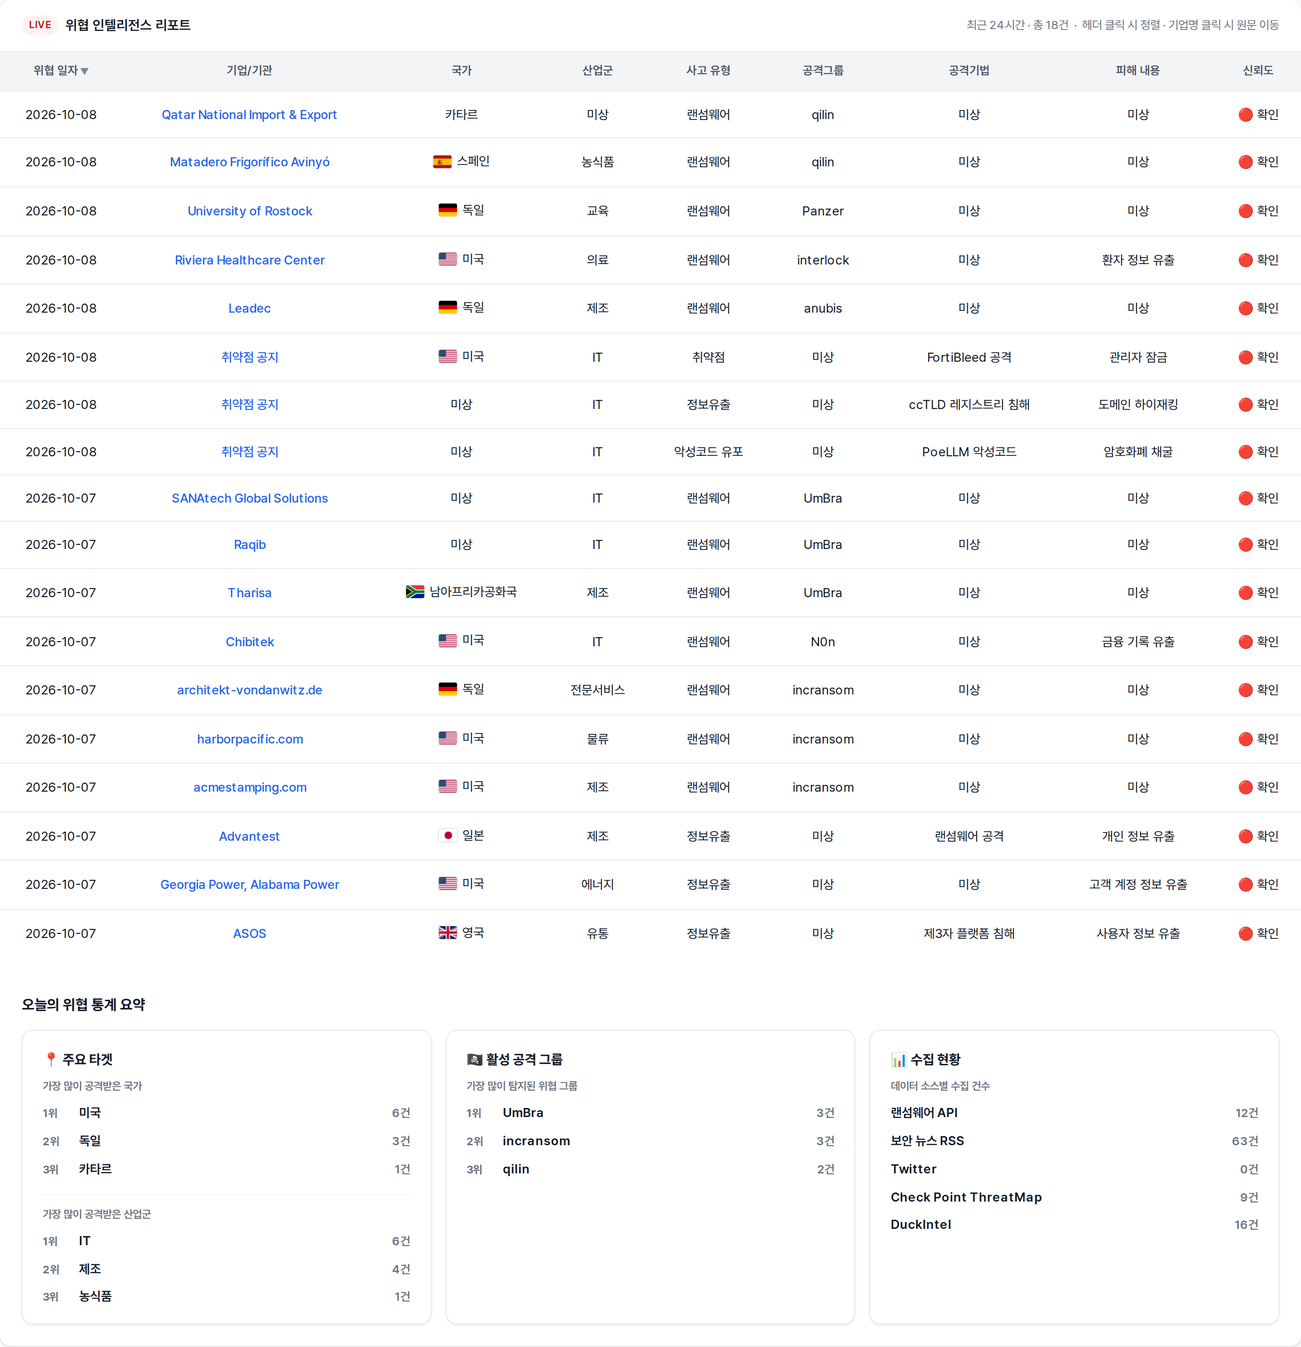
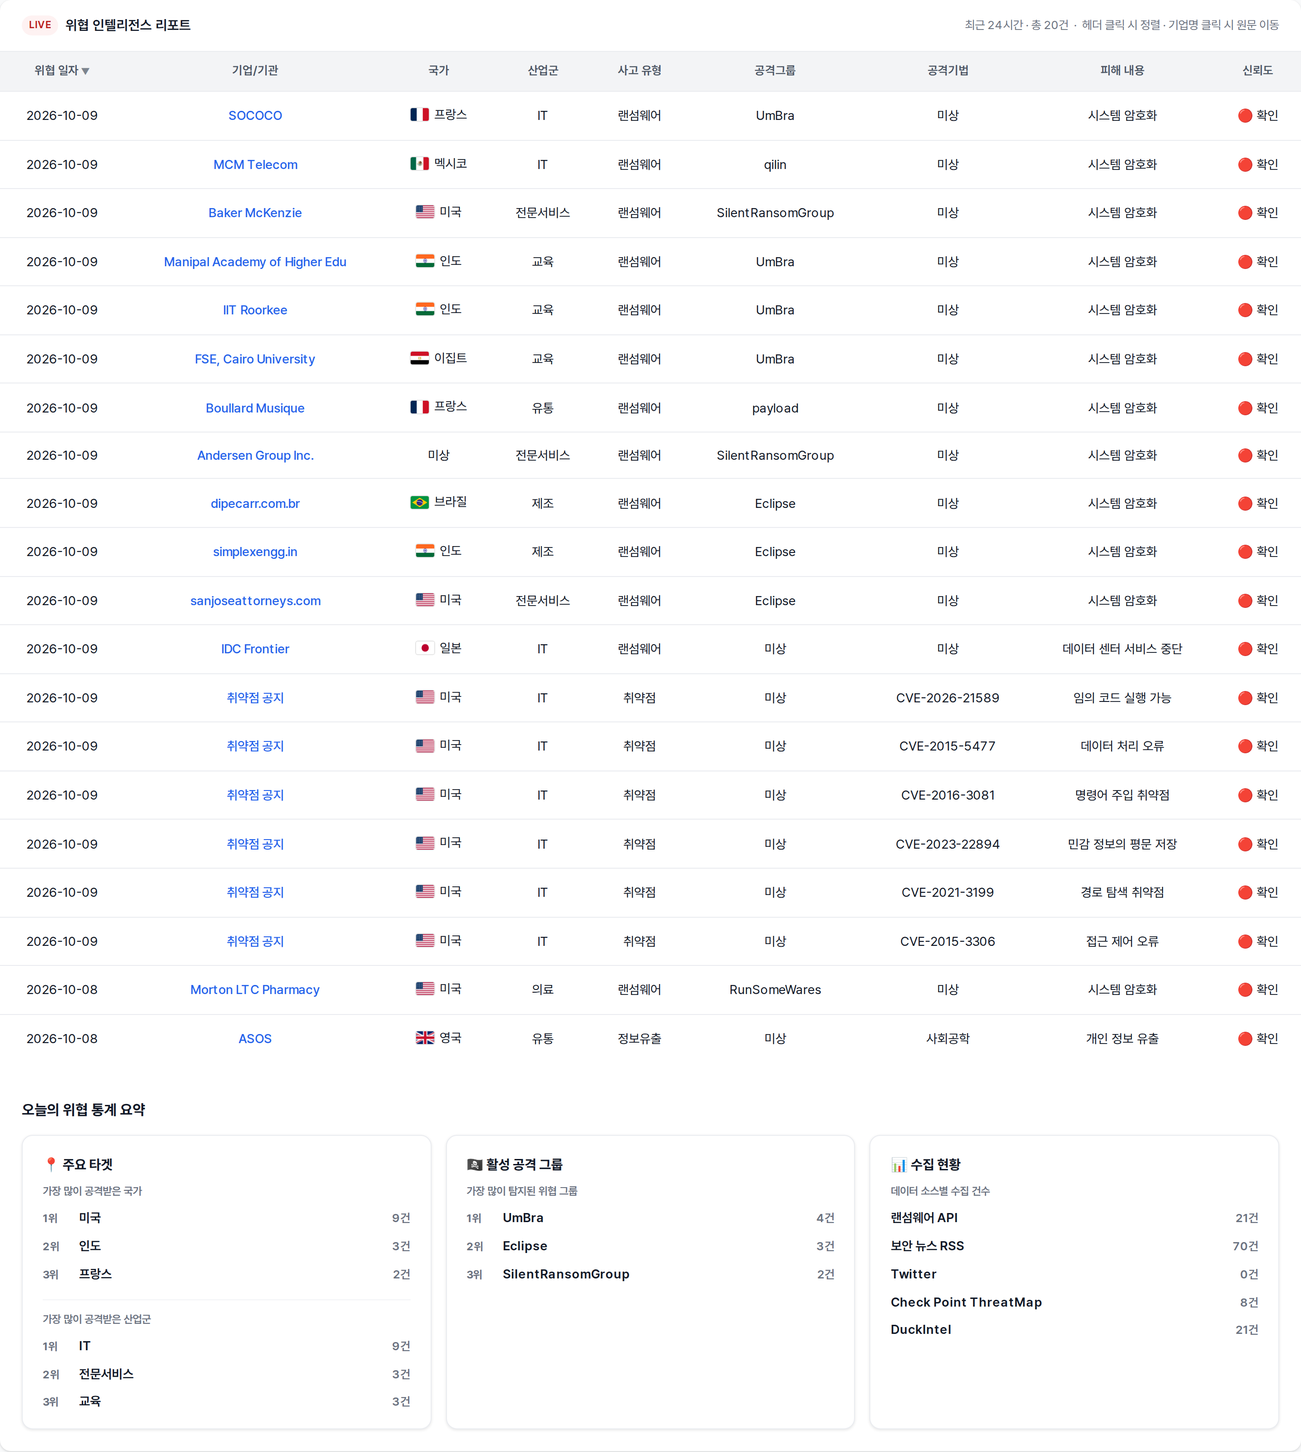
deploy: 9c533ad8fcaa3f846a31aadab046301a26f1192c

diff --git a/index.html b/index.html
@@ -3,7 +3,7 @@
 <head>
   <meta charset="UTF-8" />
   <meta name="viewport" content="width=device-width, initial-scale=1.0" />
-  <title>🚨 2026년 10월 08일 국내/해외 사이버 위협 현황</title>
+  <title>🚨 2026년 10월 09일 국내/해외 사이버 위협 현황</title>
   <link rel="preconnect" href="https://cdn.jsdelivr.net" />
   <link href="https://cdn.jsdelivr.net/gh/orioncactus/pretendard/dist/web/static/pretendard.css" rel="stylesheet" />
   <style>
@@ -253,7 +253,7 @@
 </head>
 <body>
   <div class="page-header">
-    <h1 class="page-title">🚨 2026년 10월 08일 국내/해외 사이버 위협 현황</h1>
+    <h1 class="page-title">🚨 2026년 10월 09일 국내/해외 사이버 위협 현황</h1>
   </div>
 
   <div class="dashboard">
@@ -261,30 +261,32 @@
     <div class="card-header">
       <span class="badge">LIVE</span>
       <span class="card-title">위협 인텔리전스 리포트</span>
-      <span class="card-count">최근 24시간 · 총 18건 &nbsp;·&nbsp; 헤더 클릭 시 정렬 · 기업명 클릭 시 원문 이동</span>
+      <span class="card-count">최근 24시간 · 총 20건 &nbsp;·&nbsp; 헤더 클릭 시 정렬 · 기업명 클릭 시 원문 이동</span>
     </div>
     <div class="table-wrap" style="overflow-x: auto; -webkit-overflow-scrolling: touch;">
       <table id="threat-table">
         <thead><tr><th onclick="sortTable(0)" data-col="0" class="sort-desc">위협 일자</th><th onclick="sortTable(1)" data-col="1">기업/기관</th><th onclick="sortTable(2)" data-col="2">국가</th><th onclick="sortTable(3)" data-col="3">산업군</th><th onclick="sortTable(4)" data-col="4">사고 유형</th><th onclick="sortTable(5)" data-col="5">공격그룹</th><th onclick="sortTable(6)" data-col="6">공격기법</th><th onclick="sortTable(7)" data-col="7">피해 내용</th><th onclick="sortTable(8)" data-col="8">신뢰도</th></tr></thead>
         <tbody>
-<tr><td>2026-10-08</td><td><a href="https://www.ransomware.live/id/UWF0YXIgTmF0aW9uYWwgSW1wb3J0ICYgRXhwb3J0QHFpbGlu" target="_blank" rel="noopener noreferrer">Qatar National Import &amp; Export</a></td><td class="country"><span class="country-cell">카타르</span></td><td>미상</td><td>랜섬웨어</td><td>qilin</td><td>미상</td><td>미상</td><td>🔴 확인</td></tr>
-<tr><td>2026-10-08</td><td><a href="https://www.ransomware.live/id/TWF0YWRlcm8gRnJpZ29yw61maWNvIEF2aW55w7NAcWlsaW4=" target="_blank" rel="noopener noreferrer">Matadero Frigorífico Avinyó</a></td><td class="country"><span class="country-cell"><img class="flag" src="https://flagcdn.com/w40/es.png" alt="스페인" width="20" height="14" />스페인</span></td><td>농식품</td><td>랜섬웨어</td><td>qilin</td><td>미상</td><td>미상</td><td>🔴 확인</td></tr>
-<tr><td>2026-10-08</td><td><a href="https://www.ransomware.live/id/VW5pdmVyc2l0eSBvZiBSb3N0b2NrQFBhbnplcg==" target="_blank" rel="noopener noreferrer">University of Rostock</a></td><td class="country"><span class="country-cell"><img class="flag" src="https://flagcdn.com/w40/de.png" alt="독일" width="20" height="14" />독일</span></td><td>교육</td><td>랜섬웨어</td><td>Panzer</td><td>미상</td><td>미상</td><td>🔴 확인</td></tr>
-<tr><td>2026-10-08</td><td><a href="https://www.ransomware.live/id/Uml2aWVyYSBIZWFsdGhjYXJlIENlbnRlckBpbnRlcmxvY2s=" target="_blank" rel="noopener noreferrer">Riviera Healthcare Center</a></td><td class="country"><span class="country-cell"><img class="flag" src="https://flagcdn.com/w40/us.png" alt="미국" width="20" height="14" />미국</span></td><td>의료</td><td>랜섬웨어</td><td>interlock</td><td>미상</td><td>환자 정보 유출</td><td>🔴 확인</td></tr>
-<tr><td>2026-10-08</td><td><a href="https://www.ransomware.live/id/TGVhZGVjQGFudWJpcw==" target="_blank" rel="noopener noreferrer">Leadec</a></td><td class="country"><span class="country-cell"><img class="flag" src="https://flagcdn.com/w40/de.png" alt="독일" width="20" height="14" />독일</span></td><td>제조</td><td>랜섬웨어</td><td>anubis</td><td>미상</td><td>미상</td><td>🔴 확인</td></tr>
-<tr><td>2026-10-08</td><td><a href="https://www.bleepingcomputer.com/news/security/fbi-ongoing-fortibleed-attacks-lock-out-fortigate-vpn-admins/" target="_blank" rel="noopener noreferrer">취약점 공지</a></td><td class="country"><span class="country-cell"><img class="flag" src="https://flagcdn.com/w40/us.png" alt="미국" width="20" height="14" />미국</span></td><td>IT</td><td>취약점</td><td>미상</td><td>FortiBleed 공격</td><td>관리자 잠금</td><td>🔴 확인</td></tr>
-<tr><td>2026-10-08</td><td><a href="https://www.bleepingcomputer.com/news/security/hackers-hijack-google-domains-after-breaching-cctld-registries/" target="_blank" rel="noopener noreferrer">취약점 공지</a></td><td class="country"><span class="country-cell">미상</span></td><td>IT</td><td>정보유출</td><td>미상</td><td>ccTLD 레지스트리 침해</td><td>도메인 하이재킹</td><td>🔴 확인</td></tr>
-<tr><td>2026-10-08</td><td><a href="https://www.bleepingcomputer.com/news/security/poellm-malware-infects-exposed-ai-servers-in-cryptomining-attacks/" target="_blank" rel="noopener noreferrer">취약점 공지</a></td><td class="country"><span class="country-cell">미상</span></td><td>IT</td><td>악성코드 유포</td><td>미상</td><td>PoeLLM 악성코드</td><td>암호화폐 채굴</td><td>🔴 확인</td></tr>
-<tr><td>2026-10-07</td><td><a href="https://www.ransomware.live/id/U0FOQXRlY2ggR2xvYmFsIFNvbHV0aW9uc0BVbUJyYQ==" target="_blank" rel="noopener noreferrer">SANAtech Global Solutions</a></td><td class="country"><span class="country-cell">미상</span></td><td>IT</td><td>랜섬웨어</td><td>UmBra</td><td>미상</td><td>미상</td><td>🔴 확인</td></tr>
-<tr><td>2026-10-07</td><td><a href="https://www.ransomware.live/id/UmFxaWJAVW1CcmE=" target="_blank" rel="noopener noreferrer">Raqib</a></td><td class="country"><span class="country-cell">미상</span></td><td>IT</td><td>랜섬웨어</td><td>UmBra</td><td>미상</td><td>미상</td><td>🔴 확인</td></tr>
-<tr><td>2026-10-07</td><td><a href="https://www.ransomware.live/id/VGhhcmlzYUBVbUJyYQ==" target="_blank" rel="noopener noreferrer">Tharisa</a></td><td class="country"><span class="country-cell"><img class="flag" src="https://flagcdn.com/w40/za.png" alt="남아프리카공화국" width="20" height="14" />남아프리카공화국</span></td><td>제조</td><td>랜섬웨어</td><td>UmBra</td><td>미상</td><td>미상</td><td>🔴 확인</td></tr>
-<tr><td>2026-10-07</td><td><a href="https://www.ransomware.live/id/Q2hpYml0ZWtATjBu" target="_blank" rel="noopener noreferrer">Chibitek</a></td><td class="country"><span class="country-cell"><img class="flag" src="https://flagcdn.com/w40/us.png" alt="미국" width="20" height="14" />미국</span></td><td>IT</td><td>랜섬웨어</td><td>N0n</td><td>미상</td><td>금융 기록 유출</td><td>🔴 확인</td></tr>
-<tr><td>2026-10-07</td><td><a href="https://www.ransomware.live/id/YXJjaGl0ZWt0LXZvbmRhbndpdHouZGVAaW5jcmFuc29t" target="_blank" rel="noopener noreferrer">architekt-vondanwitz.de</a></td><td class="country"><span class="country-cell"><img class="flag" src="https://flagcdn.com/w40/de.png" alt="독일" width="20" height="14" />독일</span></td><td>전문서비스</td><td>랜섬웨어</td><td>incransom</td><td>미상</td><td>미상</td><td>🔴 확인</td></tr>
-<tr><td>2026-10-07</td><td><a href="https://www.ransomware.live/id/aGFyYm9ycGFjaWZpYy5jb21AaW5jcmFuc29t" target="_blank" rel="noopener noreferrer">harborpacific.com</a></td><td class="country"><span class="country-cell"><img class="flag" src="https://flagcdn.com/w40/us.png" alt="미국" width="20" height="14" />미국</span></td><td>물류</td><td>랜섬웨어</td><td>incransom</td><td>미상</td><td>미상</td><td>🔴 확인</td></tr>
-<tr><td>2026-10-07</td><td><a href="https://www.ransomware.live/id/YWNtZXN0YW1waW5nLmNvbUBpbmNyYW5zb20=" target="_blank" rel="noopener noreferrer">acmestamping.com</a></td><td class="country"><span class="country-cell"><img class="flag" src="https://flagcdn.com/w40/us.png" alt="미국" width="20" height="14" />미국</span></td><td>제조</td><td>랜섬웨어</td><td>incransom</td><td>미상</td><td>미상</td><td>🔴 확인</td></tr>
-<tr><td>2026-10-07</td><td><a href="https://www.securityweek.com/advantest-discloses-data-breach-months-after-ransomware-attack/" target="_blank" rel="noopener noreferrer">Advantest</a></td><td class="country"><span class="country-cell"><img class="flag" src="https://flagcdn.com/w40/jp.png" alt="일본" width="20" height="14" />일본</span></td><td>제조</td><td>정보유출</td><td>미상</td><td>랜섬웨어 공격</td><td>개인 정보 유출</td><td>🔴 확인</td></tr>
-<tr><td>2026-10-07</td><td><a href="https://www.securityweek.com/georgia-power-alabama-power-data-breach-hits-400000-accounts/" target="_blank" rel="noopener noreferrer">Georgia Power, Alabama Power</a></td><td class="country"><span class="country-cell"><img class="flag" src="https://flagcdn.com/w40/us.png" alt="미국" width="20" height="14" />미국</span></td><td>에너지</td><td>정보유출</td><td>미상</td><td>미상</td><td>고객 계정 정보 유출</td><td>🔴 확인</td></tr>
-<tr><td>2026-10-07</td><td><a href="https://www.securityweek.com/asos-confirms-cyberattack-data-breach/" target="_blank" rel="noopener noreferrer">ASOS</a></td><td class="country"><span class="country-cell"><img class="flag" src="https://flagcdn.com/w40/gb.png" alt="영국" width="20" height="14" />영국</span></td><td>유통</td><td>정보유출</td><td>미상</td><td>제3자 플랫폼 침해</td><td>사용자 정보 유출</td><td>🔴 확인</td></tr>
+<tr><td>2026-10-09</td><td><a href="https://www.ransomware.live/id/U09DT0NPQFVtQnJh" target="_blank" rel="noopener noreferrer">SOCOCO</a></td><td class="country"><span class="country-cell"><img class="flag" src="https://flagcdn.com/w40/fr.png" alt="프랑스" width="20" height="14" />프랑스</span></td><td>IT</td><td>랜섬웨어</td><td>UmBra</td><td>미상</td><td>시스템 암호화</td><td>🔴 확인</td></tr>
+<tr><td>2026-10-09</td><td><a href="https://www.ransomware.live/id/TUNNIFRlbGVjb21AcWlsaW4=" target="_blank" rel="noopener noreferrer">MCM Telecom</a></td><td class="country"><span class="country-cell"><img class="flag" src="https://flagcdn.com/w40/mx.png" alt="멕시코" width="20" height="14" />멕시코</span></td><td>IT</td><td>랜섬웨어</td><td>qilin</td><td>미상</td><td>시스템 암호화</td><td>🔴 확인</td></tr>
+<tr><td>2026-10-09</td><td><a href="https://www.ransomware.live/id/QmFrZXIgTWNLZW56aWVAU2lsZW50UmFuc29tR3JvdXA=" target="_blank" rel="noopener noreferrer">Baker McKenzie</a></td><td class="country"><span class="country-cell"><img class="flag" src="https://flagcdn.com/w40/us.png" alt="미국" width="20" height="14" />미국</span></td><td>전문서비스</td><td>랜섬웨어</td><td>SilentRansomGroup</td><td>미상</td><td>시스템 암호화</td><td>🔴 확인</td></tr>
+<tr><td>2026-10-09</td><td><a href="https://www.ransomware.live/id/TWFuaXBhbCBBY2FkZW15IG9mIEhpZ2hlciBFZHVAVW1CcmE=" target="_blank" rel="noopener noreferrer">Manipal Academy of Higher Edu</a></td><td class="country"><span class="country-cell"><img class="flag" src="https://flagcdn.com/w40/in.png" alt="인도" width="20" height="14" />인도</span></td><td>교육</td><td>랜섬웨어</td><td>UmBra</td><td>미상</td><td>시스템 암호화</td><td>🔴 확인</td></tr>
+<tr><td>2026-10-09</td><td><a href="https://www.ransomware.live/id/SUlUIFJvb3JrZWVAVW1CcmE=" target="_blank" rel="noopener noreferrer">IIT Roorkee</a></td><td class="country"><span class="country-cell"><img class="flag" src="https://flagcdn.com/w40/in.png" alt="인도" width="20" height="14" />인도</span></td><td>교육</td><td>랜섬웨어</td><td>UmBra</td><td>미상</td><td>시스템 암호화</td><td>🔴 확인</td></tr>
+<tr><td>2026-10-09</td><td><a href="https://www.ransomware.live/id/RlNFLCBDYWlybyBVbml2ZXJzaXR5QFVtQnJh" target="_blank" rel="noopener noreferrer">FSE, Cairo University</a></td><td class="country"><span class="country-cell"><img class="flag" src="https://flagcdn.com/w40/eg.png" alt="이집트" width="20" height="14" />이집트</span></td><td>교육</td><td>랜섬웨어</td><td>UmBra</td><td>미상</td><td>시스템 암호화</td><td>🔴 확인</td></tr>
+<tr><td>2026-10-09</td><td><a href="https://www.ransomware.live/id/Qm91bGxhcmQgTXVzaXF1ZUBwYXlsb2Fk" target="_blank" rel="noopener noreferrer">Boullard Musique</a></td><td class="country"><span class="country-cell"><img class="flag" src="https://flagcdn.com/w40/fr.png" alt="프랑스" width="20" height="14" />프랑스</span></td><td>유통</td><td>랜섬웨어</td><td>payload</td><td>미상</td><td>시스템 암호화</td><td>🔴 확인</td></tr>
+<tr><td>2026-10-09</td><td><a href="https://www.ransomware.live/id/QW5kZXJzZW4gR3JvdXAgSW5jLkBTaWxlbnRSYW5zb21Hcm91cA==" target="_blank" rel="noopener noreferrer">Andersen Group Inc.</a></td><td class="country"><span class="country-cell">미상</span></td><td>전문서비스</td><td>랜섬웨어</td><td>SilentRansomGroup</td><td>미상</td><td>시스템 암호화</td><td>🔴 확인</td></tr>
+<tr><td>2026-10-09</td><td><a href="https://www.ransomware.live/id/ZGlwZWNhcnIuY29tLmJyQEVjbGlwc2U=" target="_blank" rel="noopener noreferrer">dipecarr.com.br</a></td><td class="country"><span class="country-cell"><img class="flag" src="https://flagcdn.com/w40/br.png" alt="브라질" width="20" height="14" />브라질</span></td><td>제조</td><td>랜섬웨어</td><td>Eclipse</td><td>미상</td><td>시스템 암호화</td><td>🔴 확인</td></tr>
+<tr><td>2026-10-09</td><td><a href="https://www.ransomware.live/id/c2ltcGxleGVuZ2cuaW5ARWNsaXBzZQ==" target="_blank" rel="noopener noreferrer">simplexengg.in</a></td><td class="country"><span class="country-cell"><img class="flag" src="https://flagcdn.com/w40/in.png" alt="인도" width="20" height="14" />인도</span></td><td>제조</td><td>랜섬웨어</td><td>Eclipse</td><td>미상</td><td>시스템 암호화</td><td>🔴 확인</td></tr>
+<tr><td>2026-10-09</td><td><a href="https://www.ransomware.live/id/c2Fuam9zZWF0dG9ybmV5cy5jb21ARWNsaXBzZQ==" target="_blank" rel="noopener noreferrer">sanjoseattorneys.com</a></td><td class="country"><span class="country-cell"><img class="flag" src="https://flagcdn.com/w40/us.png" alt="미국" width="20" height="14" />미국</span></td><td>전문서비스</td><td>랜섬웨어</td><td>Eclipse</td><td>미상</td><td>시스템 암호화</td><td>🔴 확인</td></tr>
+<tr><td>2026-10-09</td><td><a href="https://www.bleepingcomputer.com/news/security/ransomware-attack-disrupts-japans-idcf-cloud-used-by-govt-clients/" target="_blank" rel="noopener noreferrer">IDC Frontier</a></td><td class="country"><span class="country-cell"><img class="flag" src="https://flagcdn.com/w40/jp.png" alt="일본" width="20" height="14" />일본</span></td><td>IT</td><td>랜섬웨어</td><td>미상</td><td>미상</td><td>데이터 센터 서비스 중단</td><td>🔴 확인</td></tr>
+<tr><td>2026-10-09</td><td><a href="https://www.bleepingcomputer.com/news/security/cisco-warns-of-critical-flaws-allowing-nexus-switch-takeover/" target="_blank" rel="noopener noreferrer">취약점 공지</a></td><td class="country"><span class="country-cell"><img class="flag" src="https://flagcdn.com/w40/us.png" alt="미국" width="20" height="14" />미국</span></td><td>IT</td><td>취약점</td><td>미상</td><td>CVE-2026-21589</td><td>임의 코드 실행 가능</td><td>🔴 확인</td></tr>
+<tr><td>2026-10-09</td><td><a href="https://nvd.nist.gov/vuln/detail/CVE-2015-5477" target="_blank" rel="noopener noreferrer">취약점 공지</a></td><td class="country"><span class="country-cell"><img class="flag" src="https://flagcdn.com/w40/us.png" alt="미국" width="20" height="14" />미국</span></td><td>IT</td><td>취약점</td><td>미상</td><td>CVE-2015-5477</td><td>데이터 처리 오류</td><td>🔴 확인</td></tr>
+<tr><td>2026-10-09</td><td><a href="https://nvd.nist.gov/vuln/detail/CVE-2016-3081" target="_blank" rel="noopener noreferrer">취약점 공지</a></td><td class="country"><span class="country-cell"><img class="flag" src="https://flagcdn.com/w40/us.png" alt="미국" width="20" height="14" />미국</span></td><td>IT</td><td>취약점</td><td>미상</td><td>CVE-2016-3081</td><td>명령어 주입 취약점</td><td>🔴 확인</td></tr>
+<tr><td>2026-10-09</td><td><a href="https://nvd.nist.gov/vuln/detail/CVE-2023-22894" target="_blank" rel="noopener noreferrer">취약점 공지</a></td><td class="country"><span class="country-cell"><img class="flag" src="https://flagcdn.com/w40/us.png" alt="미국" width="20" height="14" />미국</span></td><td>IT</td><td>취약점</td><td>미상</td><td>CVE-2023-22894</td><td>민감 정보의 평문 저장</td><td>🔴 확인</td></tr>
+<tr><td>2026-10-09</td><td><a href="https://nvd.nist.gov/vuln/detail/CVE-2021-3199" target="_blank" rel="noopener noreferrer">취약점 공지</a></td><td class="country"><span class="country-cell"><img class="flag" src="https://flagcdn.com/w40/us.png" alt="미국" width="20" height="14" />미국</span></td><td>IT</td><td>취약점</td><td>미상</td><td>CVE-2021-3199</td><td>경로 탐색 취약점</td><td>🔴 확인</td></tr>
+<tr><td>2026-10-09</td><td><a href="https://nvd.nist.gov/vuln/detail/CVE-2015-3306" target="_blank" rel="noopener noreferrer">취약점 공지</a></td><td class="country"><span class="country-cell"><img class="flag" src="https://flagcdn.com/w40/us.png" alt="미국" width="20" height="14" />미국</span></td><td>IT</td><td>취약점</td><td>미상</td><td>CVE-2015-3306</td><td>접근 제어 오류</td><td>🔴 확인</td></tr>
+<tr><td>2026-10-08</td><td><a href="https://www.ransomware.live/id/TW9ydG9uIExUQyBQaGFybWFjeUBSdW5Tb21lV2FyZXM=" target="_blank" rel="noopener noreferrer">Morton LTC Pharmacy</a></td><td class="country"><span class="country-cell"><img class="flag" src="https://flagcdn.com/w40/us.png" alt="미국" width="20" height="14" />미국</span></td><td>의료</td><td>랜섬웨어</td><td>RunSomeWares</td><td>미상</td><td>시스템 암호화</td><td>🔴 확인</td></tr>
+<tr><td>2026-10-08</td><td><a href="https://www.bleepingcomputer.com/news/security/asos-links-data-breach-to-social-engineering-attack-credential-theft/" target="_blank" rel="noopener noreferrer">ASOS</a></td><td class="country"><span class="country-cell"><img class="flag" src="https://flagcdn.com/w40/gb.png" alt="영국" width="20" height="14" />영국</span></td><td>유통</td><td>정보유출</td><td>미상</td><td>사회공학</td><td>개인 정보 유출</td><td>🔴 확인</td></tr>
         </tbody>
       </table>
     </div>
@@ -295,19 +297,19 @@
       <article class="stat-card">
         <h3 class="stat-title">📍 주요 타겟</h3>
         <p class="stat-subtitle">가장 많이 공격받은 국가</p>
-        <ol class="stat-list"><li><span class="stat-rank">1위</span><span class="stat-name">미국</span><span class="stat-count">6건</span></li><li><span class="stat-rank">2위</span><span class="stat-name">독일</span><span class="stat-count">3건</span></li><li><span class="stat-rank">3위</span><span class="stat-name">카타르</span><span class="stat-count">1건</span></li></ol>
+        <ol class="stat-list"><li><span class="stat-rank">1위</span><span class="stat-name">미국</span><span class="stat-count">9건</span></li><li><span class="stat-rank">2위</span><span class="stat-name">인도</span><span class="stat-count">3건</span></li><li><span class="stat-rank">3위</span><span class="stat-name">프랑스</span><span class="stat-count">2건</span></li></ol>
         <p class="stat-subtitle stat-subtitle-gap">가장 많이 공격받은 산업군</p>
-        <ol class="stat-list"><li><span class="stat-rank">1위</span><span class="stat-name">IT</span><span class="stat-count">6건</span></li><li><span class="stat-rank">2위</span><span class="stat-name">제조</span><span class="stat-count">4건</span></li><li><span class="stat-rank">3위</span><span class="stat-name">농식품</span><span class="stat-count">1건</span></li></ol>
+        <ol class="stat-list"><li><span class="stat-rank">1위</span><span class="stat-name">IT</span><span class="stat-count">9건</span></li><li><span class="stat-rank">2위</span><span class="stat-name">전문서비스</span><span class="stat-count">3건</span></li><li><span class="stat-rank">3위</span><span class="stat-name">교육</span><span class="stat-count">3건</span></li></ol>
       </article>
       <article class="stat-card">
         <h3 class="stat-title">🏴☠ 활성 공격 그룹</h3>
         <p class="stat-subtitle">가장 많이 탐지된 위협 그룹</p>
-        <ol class="stat-list"><li><span class="stat-rank">1위</span><span class="stat-name">UmBra</span><span class="stat-count">3건</span></li><li><span class="stat-rank">2위</span><span class="stat-name">incransom</span><span class="stat-count">3건</span></li><li><span class="stat-rank">3위</span><span class="stat-name">qilin</span><span class="stat-count">2건</span></li></ol>
+        <ol class="stat-list"><li><span class="stat-rank">1위</span><span class="stat-name">UmBra</span><span class="stat-count">4건</span></li><li><span class="stat-rank">2위</span><span class="stat-name">Eclipse</span><span class="stat-count">3건</span></li><li><span class="stat-rank">3위</span><span class="stat-name">SilentRansomGroup</span><span class="stat-count">2건</span></li></ol>
       </article>
       <article class="stat-card">
         <h3 class="stat-title">📊 수집 현황</h3>
         <p class="stat-subtitle">데이터 소스별 수집 건수</p>
-        <ul class="stat-list stat-sources"><li><span class="stat-name">랜섬웨어 API</span><span class="stat-count">12건</span></li><li><span class="stat-name">보안 뉴스 RSS</span><span class="stat-count">63건</span></li><li><span class="stat-name">Twitter</span><span class="stat-count">0건</span></li><li><span class="stat-name">Check Point ThreatMap</span><span class="stat-count">9건</span></li><li><span class="stat-name">DuckIntel</span><span class="stat-count">16건</span></li></ul>
+        <ul class="stat-list stat-sources"><li><span class="stat-name">랜섬웨어 API</span><span class="stat-count">21건</span></li><li><span class="stat-name">보안 뉴스 RSS</span><span class="stat-count">70건</span></li><li><span class="stat-name">Twitter</span><span class="stat-count">0건</span></li><li><span class="stat-name">Check Point ThreatMap</span><span class="stat-count">8건</span></li><li><span class="stat-name">DuckIntel</span><span class="stat-count">21건</span></li></ul>
       </article>
     </div>
   </section>
